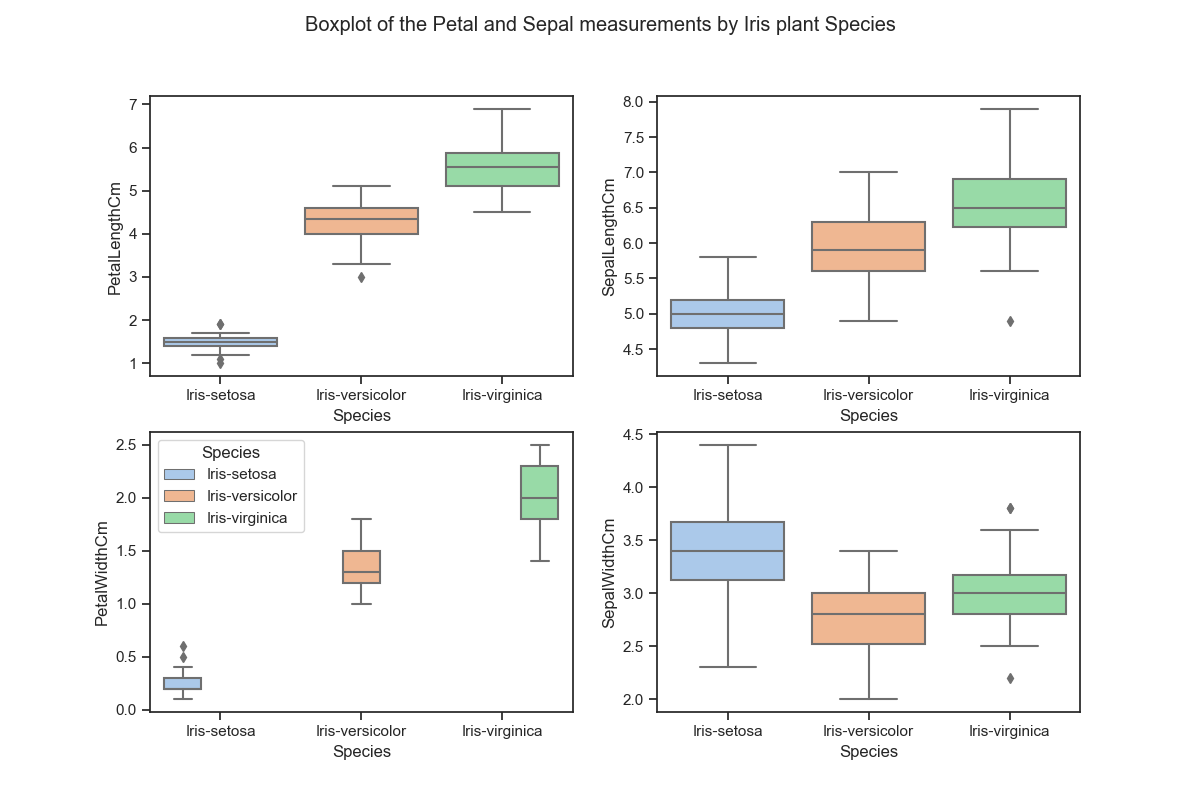
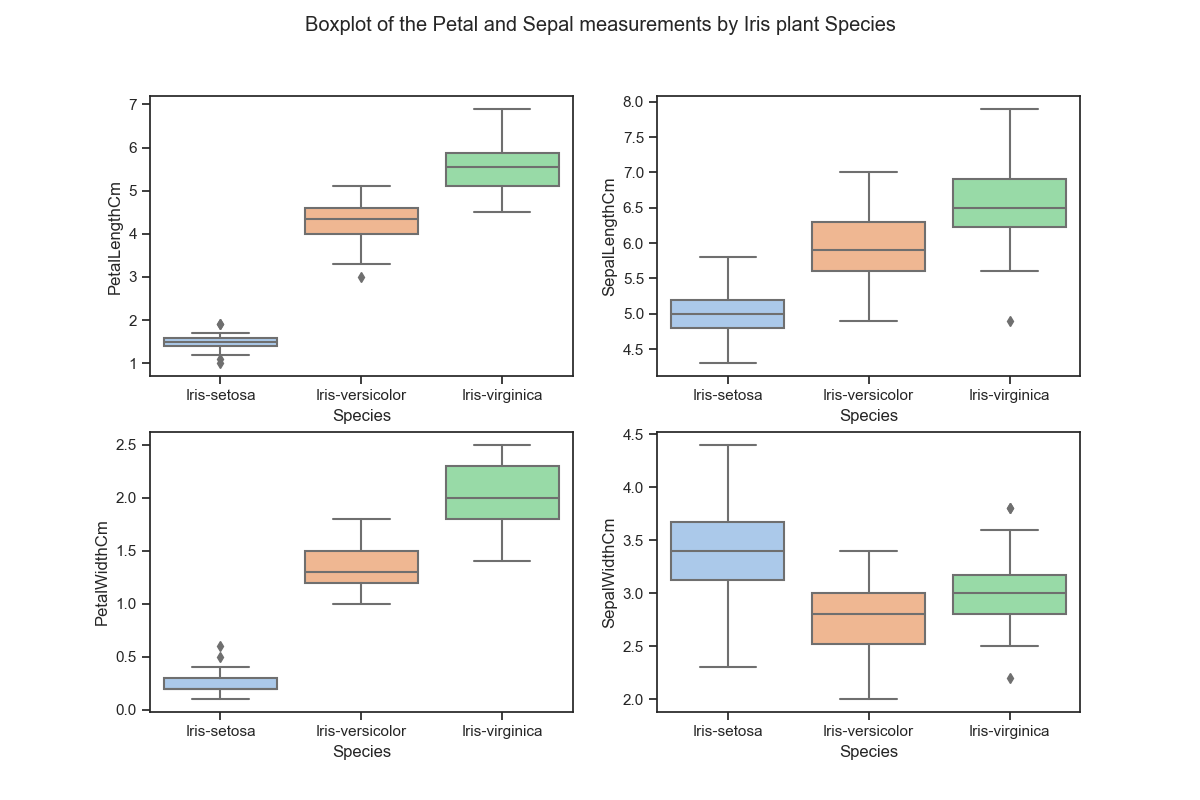
Update Readme file

diff --git a/analysis.py b/analysis.py
@@ -83,7 +83,8 @@ def summary_output():
     # https://pandas.pydata.org/docs/reference/api/pandas.core.groupby.DataFrameGroupBy.describe.html
     # https://note.nkmk.me/en/python-pandas-t-transpose/#:~:text=Use%20the%20T%20attribute%20or,columns%20swapped%20(%3D%20transposed%20object).
     print ("A summary of the count, mean, median, standard deviation, percentiles for each \n of the 4 variables and grouped by species type")
-    print ("\n")    
+    print ("\n")  
+    # using the .T function to transpose (swap the columns and rows) to make the output easier to read)  
     print (ifds.groupby("Species").describe().T)
     sys.stdout.close()    
 ''
@@ -156,6 +157,7 @@ def histograms():
 # https://www.javatpoint.com/pair-plot-in-python
 
 def pairplot():
+    # using the hue paramter in seaborn denotes which column decides the colour, in this case the Species
     sns.pairplot(ifds,hue='Species')
     plt.savefig("Iris-dataset-pairplot.png")
     plt.show()
@@ -166,6 +168,7 @@ def pairplot():
 # function for plotting a scatterplot for sepal length and width
 def sepal_length_width_scat():
     plt.figure(figsize = (9,9))
+    # using the hue paramter in seaborn denotes which column decides the colour, in this case the Species
     sns.scatterplot(x = "SepalLengthCm", y = "SepalWidthCm", data = ifds, marker = "o", 
                     hue = "Species", palette = ["blue","orange","green"], edgecolor = "dimgrey")
     plt.title("Sepal length and Sepal width comparison", size = 20)
@@ -178,6 +181,7 @@ def sepal_length_width_scat():
 # function for plotting a scatterplot for petal length and width
 def petal_length_width_scat():
     plt.figure(figsize = (9,9))
+    # using the hue paramter in seaborn denotes which column decides the colour, in this case the Species
     sns.scatterplot(x = "PetalLengthCm", y = "PetalWidthCm", data = ifds, marker = "o", 
                     hue = "Species", palette = ["blue","orange","green"], edgecolor = "dimgrey")
     plt.title("Petal length and Petal width comparison", size = 20)
@@ -199,10 +203,10 @@ def boxplots():
     f, axes = plt.subplots(2, 2, sharey=False, figsize=(12, 8))
     sns.boxplot(x="Species", y="PetalLengthCm",data=ifds, ax = axes[0,0])
     sns.boxplot(x="Species", y="SepalLengthCm", data=ifds, ax=axes[0,1])
-    sns.boxplot(x="Species", y="PetalWidthCm",hue = "Species",data=ifds, ax=axes[1,0])
+    sns.boxplot(x="Species", y="PetalWidthCm", data=ifds, ax=axes[1,0])
     sns.boxplot(x="Species", y="SepalWidthCm", data=ifds, ax=axes[1,1])
     # adding a title to the plot
-    f.suptitle("Boxplot of the Petal and Sepal measurements by Iris plant Species")
+    f.suptitle("Boxplot of the Petal and Sepal measurements by Iris Species")
     plt.savefig("Boxplots.png")
     plt.show()
 

diff --git a/README.md b/README.md
@@ -10,11 +10,11 @@ This repository is used for the final project given during the Programming and S
     * [Dataset import](#dataset-import)
     * [Imported libraries and modules](#imported-libraries-and-modules)
     * [Dataset output summary](#datasetsummary)
-
 * [Plots](#plots)
     * [Histograms](#histograms)
     * [Scatterplots](#scatterplots)
     * [Pairplots](#pairplots)
+    * [Boxplots](#boxplots)
 * [Summary and Conclusions](#conclusions)
 * [Technologies](#technologies)
 
@@ -25,7 +25,8 @@ This repository is used for the final project given during the Programming and S
 ## **Iris dataset history**
 
 Iris flower data, also known as Fisher's Iris dataset was introduced by British biologist and statistitian Sir Ronald Aylmer Fisher. In 1936, Sir Fisher published a report titled [“The Use of Multiple Measurements in Taxonomic Problems”](https://onlinelibrary.wiley.com/doi/epdf/10.1111/j.1469-1809.1936.tb02137.x) in the journal Annals of Eugenics. In this article, Fisher developed and evaluated a linear function to differentiate Iris species based on the morphology of their flowers. It was the first time that the sepal and petal measures of the three Iris species as mentioned above appeared publicly.\
-It is a multivariate data set of 50 samples which the author gathered on each of three species of Irises: setosa, versicolor and virginica. Measurements of 4 properties of 50 flowers of each of the plants were taken, namely Sepal length, Sepal width, Petal Length, and Petal width. The author suggests that the petal and sepal lengths and widths are characteristics whcih can be used to identify which species they belong to based on a linear discriminant model. Fischer himself developed the linear discriminant model,a statistical, machine learning and pattern recognition technique used to distinguish between two or more objects, classes or events. Ref [Linear discriminant analysis] [https://en.wikipedia.org/wiki/Linear_discriminant_analysis]Ref [Iris Data set wikipedia] [https://en.wikipedia.org/wiki/Iris_flower_data_set] Fischer presented the data for the 3 species in a table with each of the four measurements and subsequently, tables of observed means, sums of squares etc in order to demonstrate how each species can be discriminated from one another. 
+
+It is a multivariate data set of 50 samples which the author gathered on each of three species of Irises: setosa, versicolor and virginica. Measurements of 4 properties of 50 flowers of each of the plants were taken, namely Sepal length, Sepal width, Petal Length, and Petal width. The author suggests that the petal and sepal lengths and widths are characteristics whcih can be used to identify which species they belong to based on a linear discriminant model. Fischer himself developed the linear discriminant model,a statistical, machine learning and pattern recognition technique used to distinguish between two or more objects, classes or events. Ref [Linear discriminant analysis](https://en.wikipedia.org/wiki/Linear_discriminant_analysis)Ref [Iris Data set wikipedia](https://en.wikipedia.org/wiki/Iris_flower_data_set) Fischer presented the data for the 3 species in a table with each of the four measurements and subsequently, tables of observed means, sums of squares etc in order to demonstrate how each species can be discriminated from one another. 
 
 <img src = https://github.com/lgrealish/pands-project/blob/main/iris-species-image.png alt= "Iris flower species">
 
@@ -114,7 +115,9 @@ This output from the *describe()* function shows the count, mean, standard devia
 - Sepal length has the highest mean while petal width has the lowest mean.
 - The standard deviation in the petal lengths shows the highest variability of the four measurements at 1.76 while the standard deviations 
   of the petal width is approx 0.43.
-- The shortest petal o   
+- The shortest petal in the data set is 1cm with the longest measuring 6.9cm.
+- The sepal length has a larger mean than the other 3 variable.
+
 
 This output from the *groupby()* function shows mean and median sepal length, sepal width, petal length and petal width by species. [Link](https://www.tutorialspoint.com/exploratory-data-analysis-on-iris-dataset)
 
@@ -140,6 +143,8 @@ In this section I will look at the plots that I produced which visually summaris
 
 A histogram is a representation of the distribution of data.  The histograms below show the distribution of each of the measurement variables by species across the dataset.
 
+To create the histograms firstly I defined 4 seperate functions, 1 for each of the variables (SepalLengthCm. SepalWidthCm, PetalLengthCm, PetalWidthCm).  These were then grouped in a function called *histograms()*.
+
 
 <img src = "https://github.com/lgrealish/pands-project/blob/main/Sepal-length.png" alt = "Sepal length" width = "450" height = "450"><img src = "https://github.com/lgrealish/pands-project/blob/main/Sepal-width.png" alt = "Sepal length" width = "450" height = "450">
 
@@ -147,15 +152,37 @@ A histogram is a representation of the distribution of data.  The histograms bel
 
 The histogram for the sepal length shows quite a bit of variation with a number of various peaks while the sepal width is more centred around the 3cm but with smaller peaks either side.  
 
-The histogram of the petal length shows the Iris setosa has a petal length that is much smaller than the those of the other 2 species.
+We can see that the Iris setosa has a petal length and petal width that is much smaller than the those of the other 2 species.  The Iris setosa also has the smallest sepal length but the largest sepal width.
 
 ## **Scatterplots**
 
 Scatterplots shows how the different variables in the dataset correlate with one another.  One variable is plotted on the x-axis with the other plotted on the y-axis.  The scatterplots below show the relationship between sepal measurements and petal measurements.
 
-<img src = "https://github.com/lgrealish/pands-project/blob/main/Sepal-length-width.png" alt = "Sepal length" width = "450" height = "450"><img src = "https://github.com/lgrealish/pands-project/blob/main/Petal-length-width.png" alt = "Sepal length" width = "450" height = "450">
+similarly to the histogram code, each scatterplot was definied in a seperate function before being grouped in a *scatterplot()* function.
+
+<img src = "https://github.com/lgrealish/pands-project/blob/main/Sepal-length-width.png" alt = "Sepal length and Sepal width" width = "450" height = "450"><img src = "https://github.com/lgrealish/pands-project/blob/main/Petal-length-width.png" alt = "Petal length and Petal width" width = "450" height = "450">
+
+From the Sepal length and Sepal width scatterplot it is easier to distinguish Iris setosa than Iris versicolor and Iris virginica. Iris setosa has wider and shorter sepals, while the other species are not easy to differentiate based on this data.
+
+From the Petal length and Petal width scatterplot the difference between the three species is much more noticable. Iris setosa is very distinct and has the smallest and narrowest petals of the three. Iris virginica has the biggest petals.
 
 ## **Pairplot**
+[Pairplots](https://towardsdatascience.com/seaborn-pairplot-enhance-your-data-understanding-with-a-single-plot-bf2f44524b22#:~:text=The%20Seaborn%20Pairplot%20allows%20us,to%20become%20familiar%20with%20it.)
+
+Using the *pairplot()* we can produce the following pairplot which displays all pairwise relationships between variables within a dataset.  It creates a nice visualisation which summarises a large amount of data in a single figure.  Pairplots give a good comparison and observation of the data and provides enough information to draw conclusions.
+
+Because there are 4 different variables in our data set (SepalLengthCm, SepalWidthCm, PetalLengthCm, PetalWidthCm) a 4x4 plot is created.
+
+The pairplot shows that the Iris setosa is clearly different to the other 2 species.  We can also see that is more difficult to differentiate the other 2 species from one another as there is more overlap in the data points.
+
+<img src = "https://github.com/lgrealish/pands-project/blob/main/Sepal-length-width.png" alt = "Sepal length and Sepal width" width = "450" height = "450">
+
+## **Boxplots**
+
+[Box Plots](https://www.geeksforgeeks.org/box-plot-in-python-using-matplotlib/)
+[Box Plots](https://www.python-graph-gallery.com/30-basic-boxplot-with-seaborn?utm_content=cmp-true)
+
+The code for these plots were
 
 # **Technologies**
 
